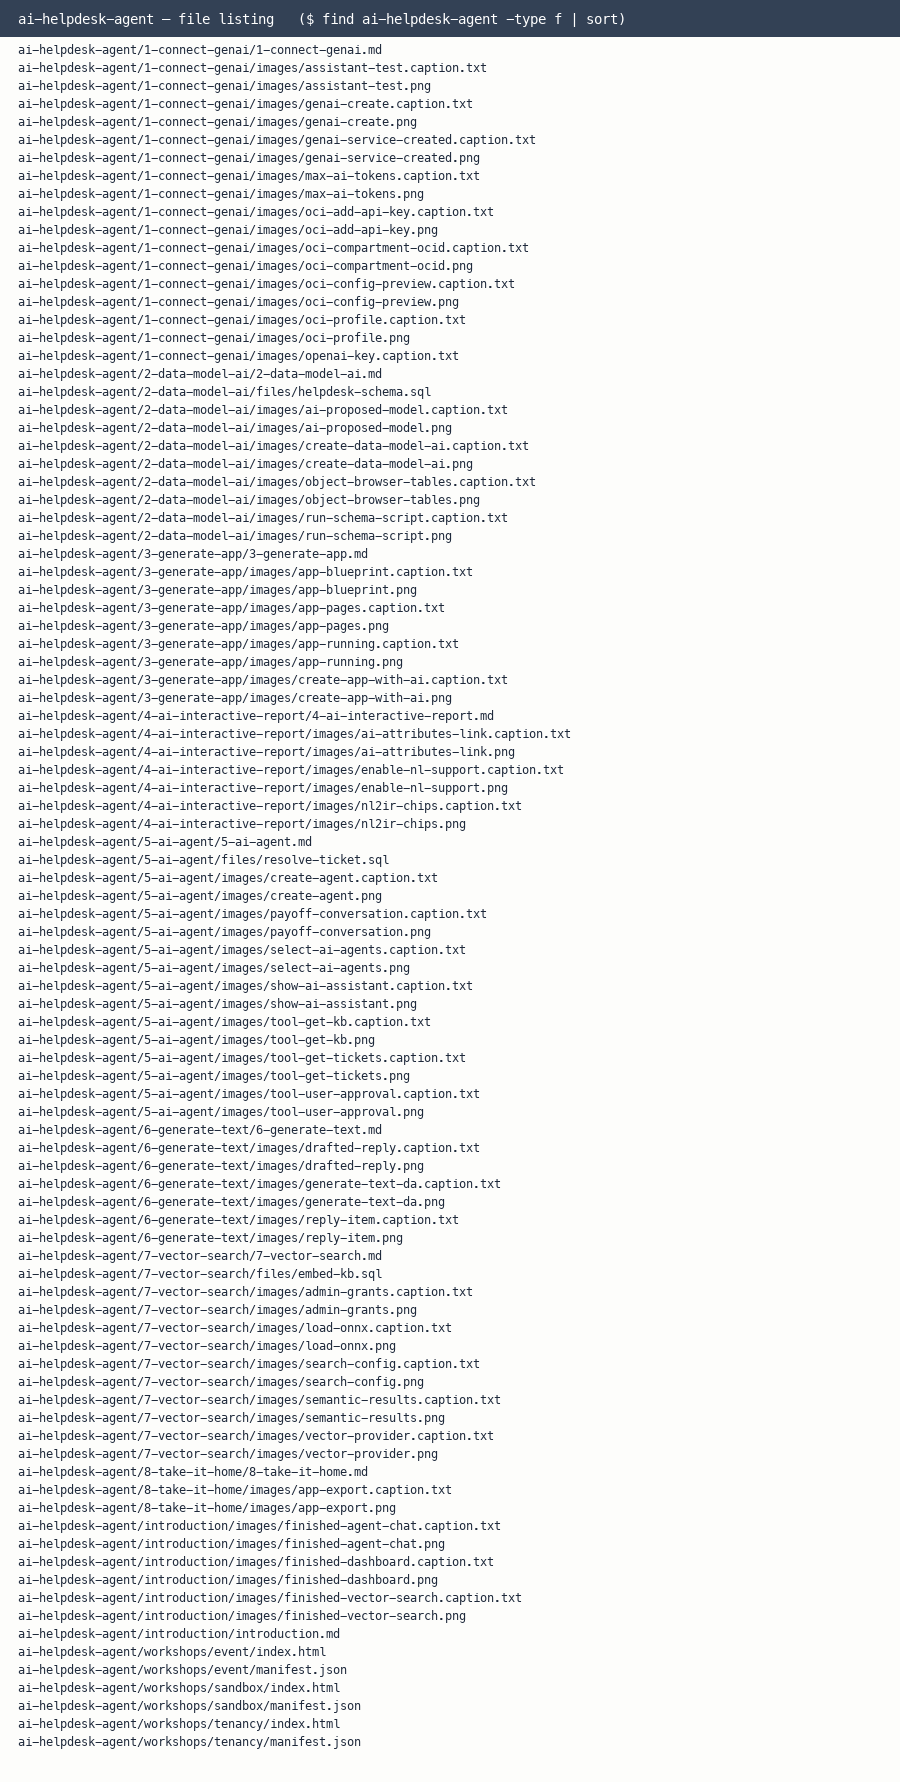
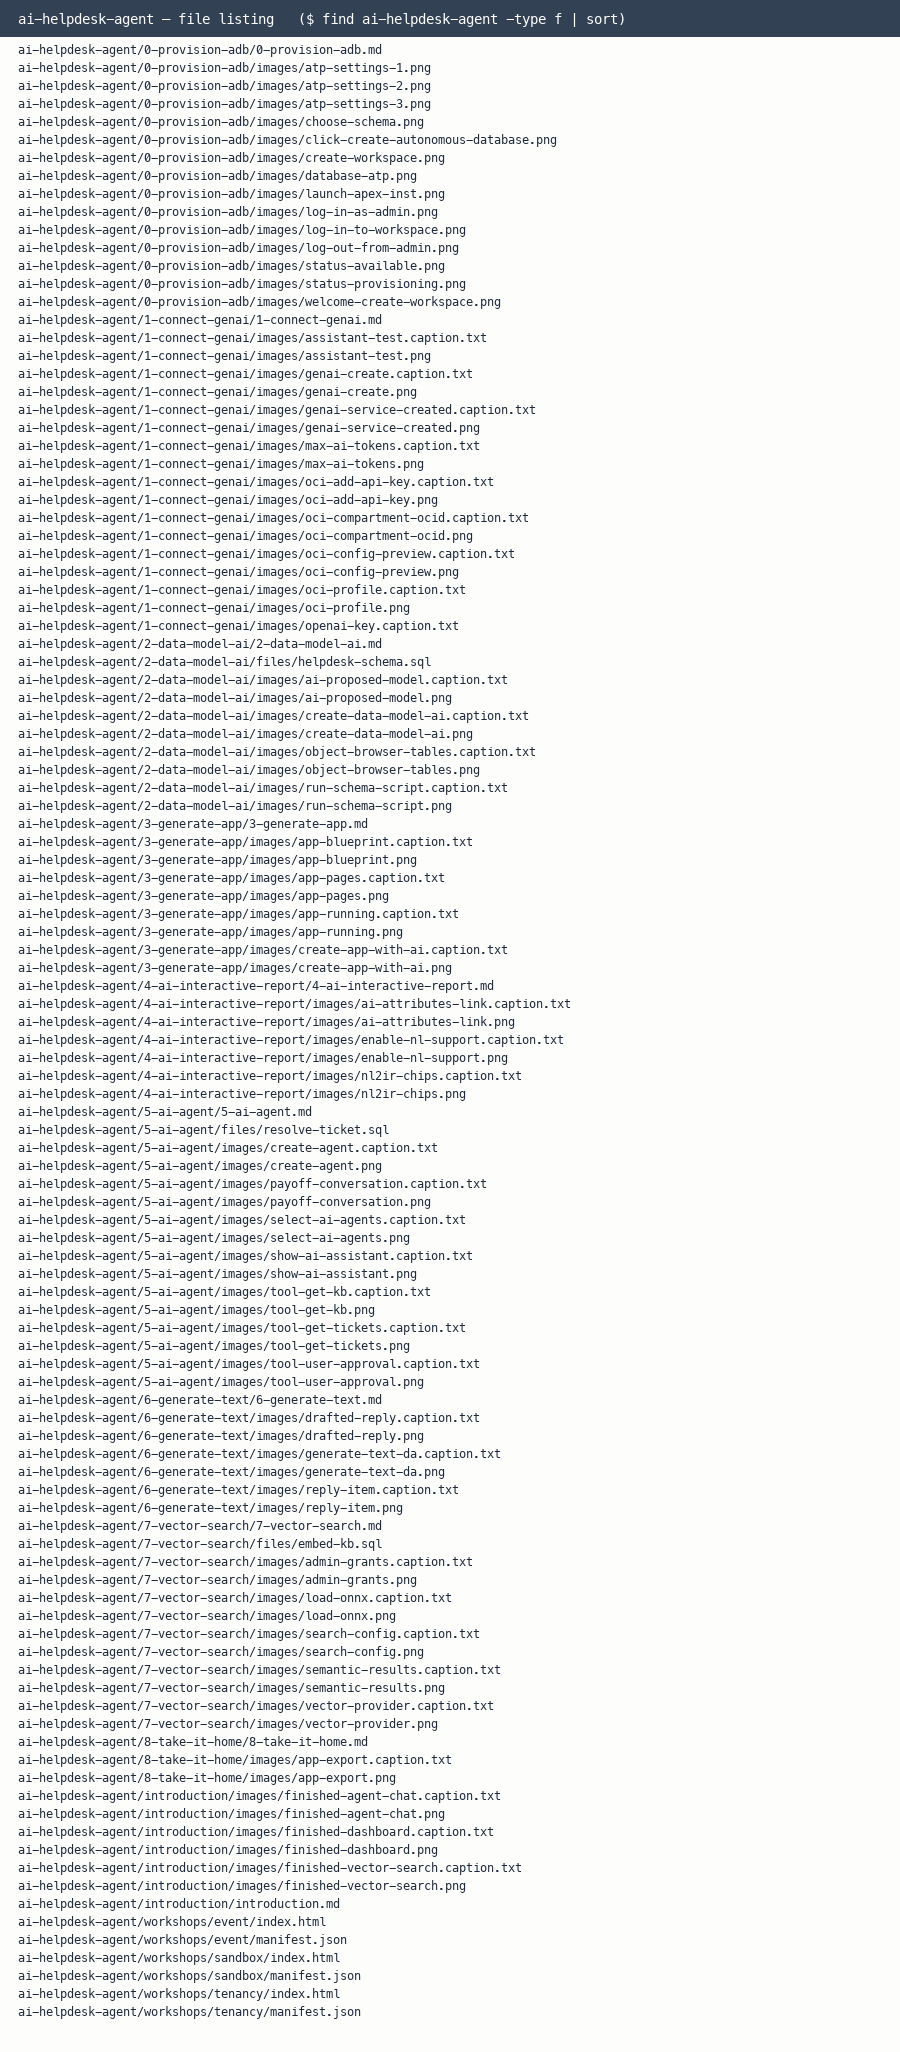
Refresh self-QA evidence for the provisioning lab
Regenerated the three WMS upload images against the current tree (10 labs,
110 files, 52 screenshots) and recorded that the provisioning lab was walked
end to end on a real tenancy rather than written from the shared lab.

Claude-Session: https://claude.ai/code/session_019nki91jxTgwFUCNAHm9Ffq

Changed region(s): [[0.0, 0.0, 0.7156, 0.9877]]

diff --git a/docs/self-qa/README.md b/docs/self-qa/README.md
@@ -15,6 +15,10 @@ placeholder screenshots) reports **0 errors**. Every image in the workshop is a 
 PR link <https://github.com/oracle-livelabs/apex/pull/346> recorded, and the workshop moved to
 **Self QA Complete** (Last QA Date 8/31/2026, rick.houlihan@oracle.com).
 
+**Re-verified 2026-09-01** after the workshop gained a provisioning lab. The evidence images in this
+folder were regenerated against the current tree (**10 labs, 110 files, 52 screenshots**) and re-uploaded
+to WMS.
+
 ---
 
 ## Mandatory requirements
@@ -85,33 +89,46 @@ PR link <https://github.com/oracle-livelabs/apex/pull/346> recorded, and the wor
 
 ## Lab section
 
-- [x] **Each lab has a title (#)** — 8/8 labs (plus the Introduction).
-- [x] **Each lab has an Introduction (##) with "Estimated Time"** — 8/8. The Introduction lab correctly
+- [x] **Each lab has a title (#)** — 9/9 labs (plus the Introduction).
+- [x] **Each lab has an Introduction (##) with "Estimated Time"** — 9/9. The Introduction lab correctly
       uses `## About this Workshop` and `Estimated Workshop Time:` instead.
-- [x] **Each lab has Objectives (###)** — 8/8.
-- [x] **Each lab has Prerequisites (###)** — 8/8. *Take It Home* was missing one; added in this pass.
-- [x] **Tasks (##), initial capitalized, not bold, colon between number and title** — 8/8.
-- [x] **Each task has numbered, indented Steps** — 8/8.
-- [x] **"You may now proceed to the next lab" at the end (except the last)** — 7/7 non-final labs.
-- [x] **Each lab has Acknowledgements (##)** — 8/8.
+- [x] **Each lab has Objectives (###)** — 9/9.
+- [x] **Each lab has Prerequisites (###)** — 9/9. *Take It Home* was missing one; added in this pass.
+- [x] **Tasks (##), initial capitalized, not bold, colon between number and title** — 9/9.
+- [x] **Each task has numbered, indented Steps** — 9/9.
+- [x] **"You may now proceed to the next lab" at the end (except the last)** — 8/8 non-final labs.
+- [x] **Each lab has Acknowledgements (##)** — 9/9.
 
 ## Screenshots
 
 - [x] **OCI Menu screenshots are the common path ones** — the workshop uses no OCI hamburger-menu
       navigation shots.
-- [x] **Screenshots are current, clear and big** — all 38 are fresh captures: 34 from this run on APEX
-      26.1.4 / app 105, and Lab 1's four OCI Console shots from the live console.
+- [x] **Screenshots are current, clear and big** — all 52 are real captures: 34 from the APEX 26.1.4 / app 105
+      run, Lab 1's four OCI Console shots from the live console, and 14 provisioning shots.
 - [x] **Screenshots are trimmed of extra whitespace** — every capture is viewport-cropped; no
       full-desktop shots.
 - [x] **Personal/sensitive information is blurred out** — the pre-authenticated request URL in
       `load-onnx.png` is under a drawn redaction bar; no OCIDs, keys, tokens or email addresses appear
       in any image.
-- [x] **Names of the images are descriptive** — 38 distinct, descriptive filenames; no `image1.png`.
-- [x] **There is a description to explain what the image looks like for accessibility** — 40/40 images
+- [x] **Names of the images are descriptive** — 52 distinct, descriptive filenames; no `image1.png`.
+- [x] **There is a description to explain what the image looks like for accessibility** — 54/54 images
       carry alt text.
 - [x] **Upload a screenshot sample of one of your accessibility descriptions** → **`alt-text-sample.png`**.
 
 ---
+
+## The provisioning lab was walked, not written
+
+`ai-helpdesk-agent/0-provision-adb/` was added after Self QA Complete, so on **2026-09-01** it was walked
+end to end on a real tenancy — `HELPDESK` terminated and rebuilt as an Always Free **26ai** database,
+then a fresh `HELPDESK` workspace created and signed in to on APEX **26.1.4**. Nine corrections came out
+of that walk, including three that would have cost a reader real time:
+
+* **Always Free resets the database version back to `19c`** — set Always Free first, then the version.
+* **"Workspace name already exists" can mean it worked** — the dialog stays open after a successful
+  create, and the obvious recovery (delete and retry) destroys the new workspace.
+* **The APEX URL opens the database sign-in page, not APEX Administration Services** — the lab pointed at
+  a screen that never appears.
 
 ## Lab 1's OCI Console screenshots
 
